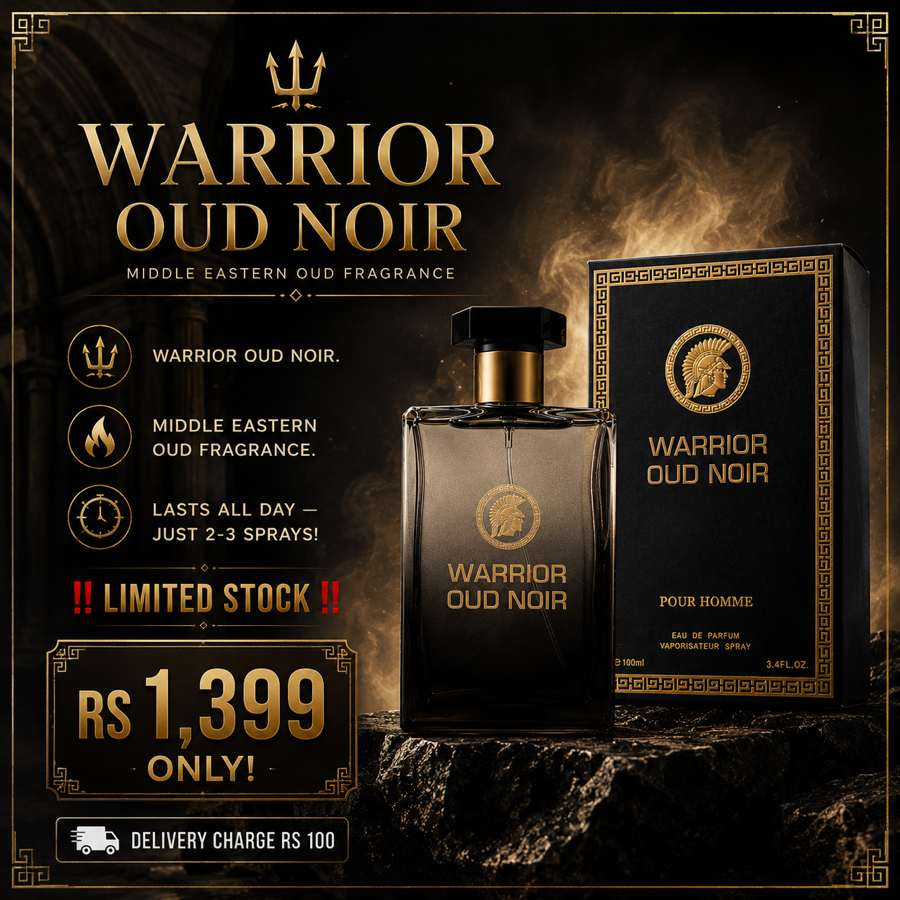
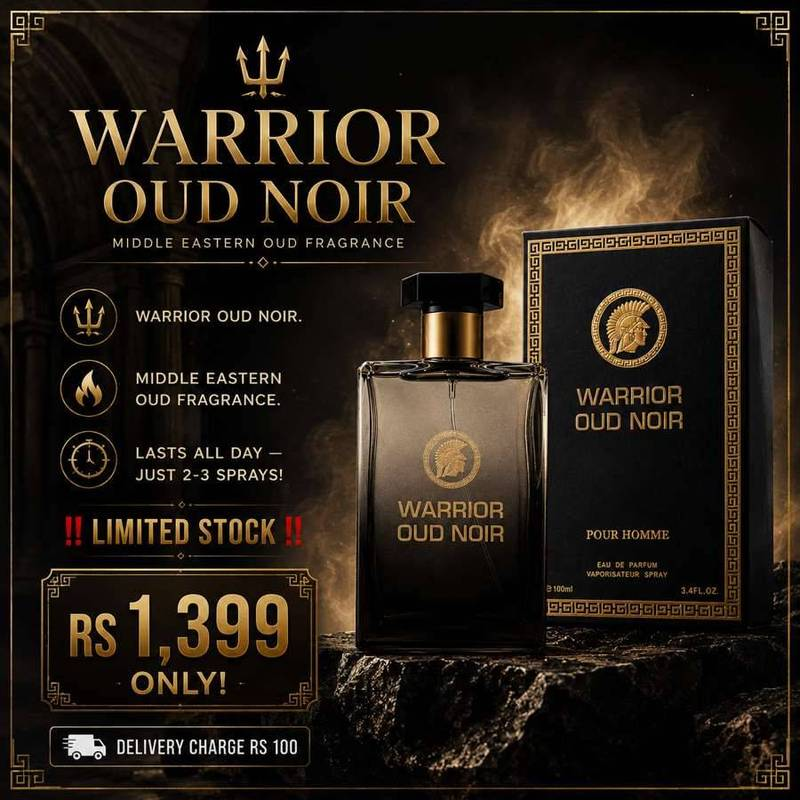
feat: add roma perfume image and compress all site images to under 100kb jpg

diff --git a/src/app/layout.tsx b/src/app/layout.tsx
@@ -51,7 +51,7 @@ export const metadata: Metadata = {
     siteName: 'Sajedar',
     images: [
       {
-        url: '/og-image.png',
+        url: '/og-image.jpg',
         width: 1200,
         height: 630,
         alt: 'Sajedar - Top AI Agent Builder in Nepal',
@@ -64,7 +64,7 @@ export const metadata: Metadata = {
     creator: '@sajedar',
     title: 'Top AI Agent Builder in Nepal | Sajedar',
     description: 'Top AI Agent Builder in Nepal specializing in commission-based Facebook Page AI sales agents and Messenger automation for ecommerce.',
-    images: ['/og-image.png'],
+    images: ['/og-image.jpg'],
   },
   robots: {
     index: true,
@@ -85,16 +85,16 @@ export const metadata: Metadata = {
   },
   icons: {
     icon: [
-      { url: '/favicon-16x16.png', sizes: '16x16', type: 'image/png' },
-      { url: '/favicon-32x32.png', sizes: '32x32', type: 'image/png' },
+      { url: '/favicon-16x16.jpg', sizes: '16x16', type: 'image/jpeg' },
+      { url: '/favicon-32x32.jpg', sizes: '32x32', type: 'image/jpeg' },
       { url: '/favicon.ico', sizes: 'any' },
     ],
     apple: [
-      { url: '/apple-touch-icon.png', sizes: '180x180', type: 'image/png' },
+      { url: '/apple-touch-icon.jpg', sizes: '180x180', type: 'image/jpeg' },
     ],
     other: [
-      { rel: 'android-chrome-192x192', url: '/android-chrome-192x192.png' },
-      { rel: 'android-chrome-512x512', url: '/android-chrome-512x512.png' },
+      { rel: 'android-chrome-192x192', url: '/android-chrome-192x192.jpg' },
+      { rel: 'android-chrome-512x512', url: '/android-chrome-512x512.jpg' },
     ],
   },
   category: 'technology',

diff --git a/src/app/creatives/page.tsx b/src/app/creatives/page.tsx
@@ -100,6 +100,11 @@ const graphicsFeatures = [
 
 const graphicsShowcase = [
   {
+    title: 'Roma Perfume Creative',
+    category: 'Premium Fragrance',
+    image: '/social-media-graphics/roma-perfume.jpg',
+  },
+  {
     title: 'Perfume Launch Creative',
     category: 'Beauty Product',
     image: '/social-media-graphics/perfume-main.jpg',
@@ -107,12 +112,12 @@ const graphicsShowcase = [
   {
     title: 'Le Bleu Product Creative',
     category: 'Fragrance Product',
-    image: '/social-media-graphics/le-bleu-01.webp',
+    image: '/social-media-graphics/le-bleu-01.jpg',
   },
   {
     title: 'Le Bleu Offer Creative',
     category: 'Fragrance Product',
-    image: '/social-media-graphics/le-bleu-02.webp',
+    image: '/social-media-graphics/le-bleu-02.jpg',
   },
 ];
 

diff --git a/src/app/website/page.tsx b/src/app/website/page.tsx
@@ -73,22 +73,22 @@ const included = [
   'WhatsApp contact integration',
   'Basic SEO setup',
 ];
-
 const examples = [
   {
     name: 'Ashwi Furniture',
     url: 'ashwi.sajedar.com',
     href: 'https://ashwi.sajedar.com',
-    image: '/ashwi_preview.png',
+    image: '/ashwi_preview.jpg',
     tag: 'Furniture store',
-    palette: 'Dark & editorial',
   },
   {
     name: 'Daily Diva',
     url: 'dailydiva.sajedar.com',
     href: 'https://dailydiva.sajedar.com',
-    image: '/dailydiva_preview.png',
+    image: '/dailydiva_preview.jpg',
     tag: 'Fashion bags',
+  },
+];
     palette: 'Soft & elegant',
   },
 ];

diff --git a/src/app/website-crm/WebsiteCrmClient.tsx b/src/app/website-crm/WebsiteCrmClient.tsx
@@ -72,14 +72,14 @@ const examples = [
     name: 'Ashwi Furniture',
     url: 'ashwi.sajedar.com',
     href: 'https://ashwi.sajedar.com',
-    image: '/ashwi_preview.png',
+    image: '/ashwi_preview.jpg',
     tag: 'Furniture store',
   },
   {
     name: 'Daily Diva',
     url: 'dailydiva.sajedar.com',
     href: 'https://dailydiva.sajedar.com',
-    image: '/dailydiva_preview.png',
+    image: '/dailydiva_preview.jpg',
     tag: 'Fashion bags',
   },
 ];
@@ -200,7 +200,7 @@ export default function WebsiteCrmClient() {
                   </div>
                   <div className="relative overflow-hidden bg-stone-100">
                     <Image
-                      src="/crm_demo_ss.png"
+                      src="/crm_demo_ss.jpg"
                       alt="Sajedar CRM & Website Platform"
                       width={1200}
                       height={900}

diff --git a/src/app/jasus-ai/JasusAiClient.tsx b/src/app/jasus-ai/JasusAiClient.tsx
@@ -51,7 +51,7 @@ const InsightsDashboard = () => (
        <div className="flex items-center gap-3">
           <div className="relative w-10 h-10 overflow-hidden rounded-xl bg-red-500/20 border border-red-500/30 animate-pulse">
              <Image
-               src="/jasus-ai-icon.png"
+               src="/jasus-ai-icon.jpg"
                alt="Jasus AI icon"
                fill
                sizes="40px"
@@ -135,7 +135,7 @@ export default function JasusAiClient() {
                 >
                   <span className="relative h-5 w-5 overflow-hidden rounded-full">
                     <Image
-                      src="/jasus-ai-icon.png"
+                      src="/jasus-ai-icon.jpg"
                       alt=""
                       fill
                       sizes="20px"

diff --git a/src/app/jasus-ai/MarketClarityApple.tsx b/src/app/jasus-ai/MarketClarityApple.tsx
@@ -142,7 +142,7 @@ export default function MarketClarityApple() {
         <div className="absolute left-1/2 top-1/2 z-20 h-28 w-28 -translate-x-1/2 -translate-y-1/2 overflow-hidden rounded-[2rem] bg-white p-6 shadow-[0_0_50px_rgba(255,255,255,0.1)]">
           <div className="relative h-full w-full">
             <Image
-              src="/jasus-ai-icon.png"
+              src="/jasus-ai-icon.jpg"
               alt="Jasus AI"
               fill
               className="object-contain"

diff --git a/src/components/Header.tsx b/src/components/Header.tsx
@@ -17,7 +17,7 @@ const Header: React.FC = () => {
             >
               <div className="relative h-7 w-7 flex-shrink-0 overflow-hidden rounded-md">
                 <Image
-                  src="/header-logo-transparent.webp"
+                  src="/header-logo-transparent.jpg"
                   alt="Sajedar Logo"
                   fill
                   sizes="28px"

diff --git a/src/components/sections/AIAsASalesman.tsx b/src/components/sections/AIAsASalesman.tsx
@@ -27,7 +27,7 @@ export default function AIAsASalesman() {
             {/* Central Image */}
             <div className="relative mb-12">
               <Image
-                src="/ai-as-a-salesman.webp"
+                src="/ai-as-a-salesman.jpg"
                 alt="AI Salesman"
                 width={320}
                 height={320}

diff --git a/src/components/sections/FounderMessageSection.tsx b/src/components/sections/FounderMessageSection.tsx
@@ -11,7 +11,7 @@ export default function FounderMessageSection() {
         <div className="flex-shrink-0">
           <div className="relative w-64 h-64 rounded-2xl overflow-hidden shadow-2xl border border-stone-200">
             <Image
-              src="/founder_pic.webp"
+              src="/founder_pic.jpg"
               alt="Founder of Sajedar"
               fill
               className="object-cover"